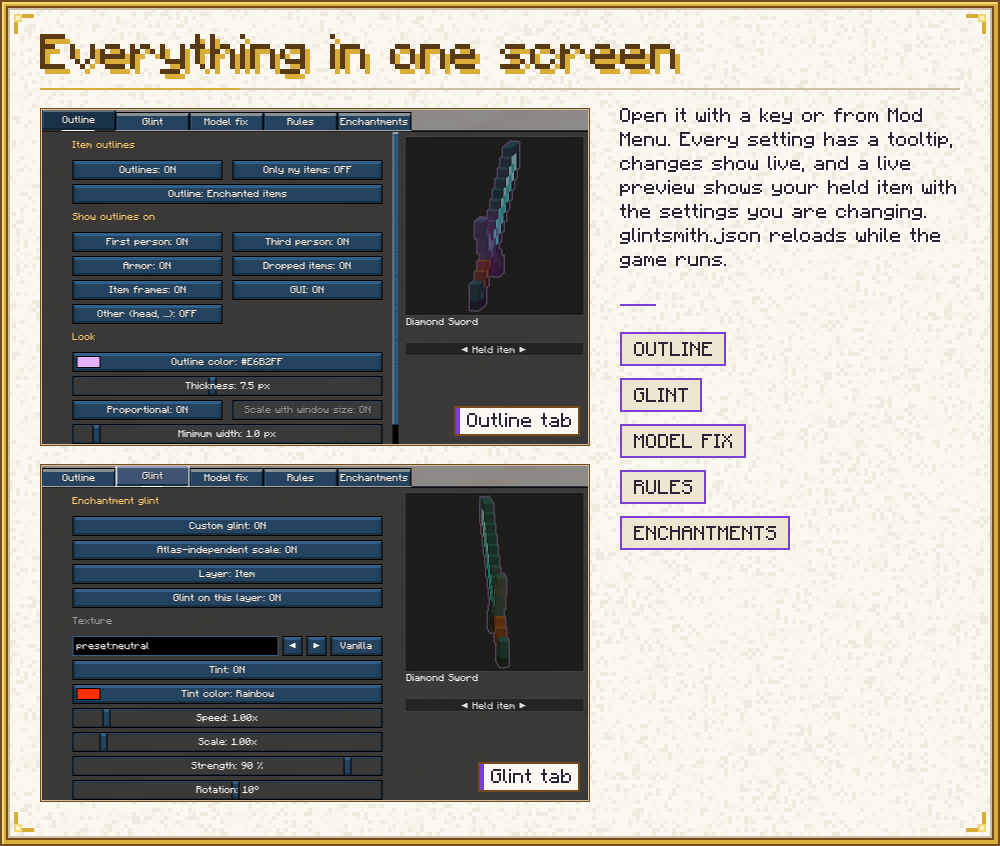
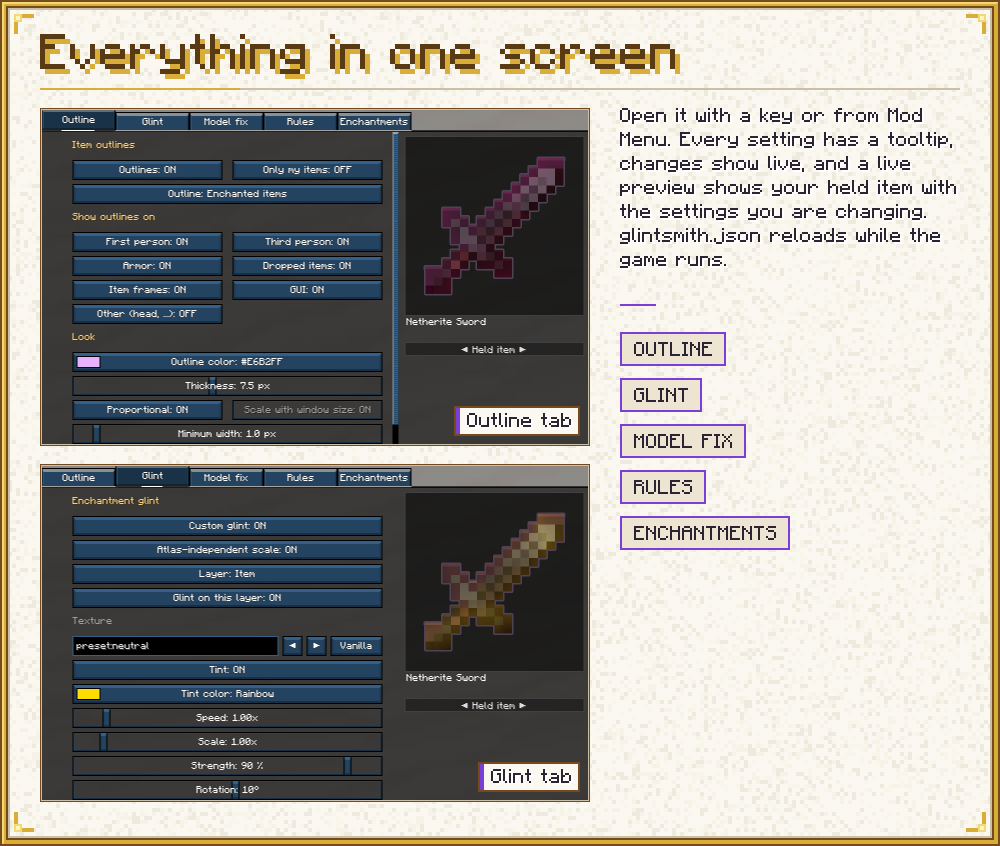
Art: card_config re-shot (netherite sword in hand, preview reset to the front view)

diff --git a/art/gallery/SHOTLIST.md b/art/gallery/SHOTLIST.md
@@ -223,7 +223,7 @@ Changing `gapFix` needs a resource reload (F3 + T, wait until it is done).
 
 Since 2.1.0 eight of these shots (`outline_static`, `hero_armor`, `hero_firstperson`, `target_third_person`, `target_dropped`, `target_gui`, `config_outline`,
 `config_glint`) are taken with the mod's built-in default config (owner defaults, no `glintsmith.json` profile overrides) by the `gallerydef` capture script, run
-2026-10-19. The other in-world captures keep their BASE profiles. Where a row below still names BASE or a macro, it applies to those other shots only.
+2026-10-19; `config_outline` and `config_glint` were re-taken by the `configfix` capture script the same day. The other in-world captures keep their BASE profiles. Where a row below still names BASE or a macro, it applies to those other shots only.
 
 All camera lines assume the rooms above. "Crop" is where the card looks (source pixels, centred unless given); it only
 has to be roughly right, the lead moves the crop in `cards.json` after looking at the capture.
@@ -275,8 +275,8 @@ middle 904 x 600 of the capture; if the screen is larger, tell the lead.
 | --- | --- | --- |
 | `rules_tab.png` | Rules tab, the four rules below visible, none selected | BASE + the four rules |
 | `rule_edit.png` | the editor of rule 1 (press Edit): name, items `#minecraft:swords`, the outline override with the red colour and thickness 3 visible | BASE + the four rules |
-| `config_outline.png` | Outline tab, top of the page, nothing hovered; since 2.0.0 the screen also shows the live preview panel (the held netherite sword with the outline). Re-shot 2026-10-19 by the `gallerydef` capture script (1920 x 1080); it shows the 2.1.0 built-in default config (static `#E6B2FF`, 7.5 px, outline on for armor and GUI) | the mod's built-in default config (2.1.0 owner defaults: outline static `#E6B2FF`, 7.5 px, 25 % opacity, on for armor and GUI; neutral glint with the rainbow tint at strength 0.9 on all four layers), no profile |
-| `config_glint.png` | Glint tab, layer Item, the default neutral texture with the rainbow tint at strength 90 %, live preview panel showing the sword with the default glint and the outline. Re-shot 2026-10-19 by the `gallerydef` capture script (1920 x 1080); it shows the 2.1.0 built-in default config | the mod's built-in default config (2.1.0 owner defaults: outline static `#E6B2FF`, 7.5 px, 25 % opacity, on for armor and GUI; neutral glint with the rainbow tint at strength 0.9 on all four layers), no profile (the screen shows the values) |
+| `config_outline.png` | Outline tab, top of the page, nothing hovered; since 2.0.0 the screen also shows the live preview panel (the held netherite sword with the outline). Re-shot 2026-10-19 by the `configfix` capture script (1920 x 1080), with the enchanted netherite sword in the hand and the preview view reset (right click, yaw 0) just before the screenshot, so the preview shows the sword flat; it shows the 2.1.0 built-in default config (static `#E6B2FF`, 7.5 px, outline on for armor and GUI) | the mod's built-in default config (2.1.0 owner defaults: outline static `#E6B2FF`, 7.5 px, 25 % opacity, on for armor and GUI; neutral glint with the rainbow tint at strength 0.9 on all four layers), no profile |
+| `config_glint.png` | Glint tab, layer Item, the default neutral texture with the rainbow tint at strength 90 %, live preview panel showing the sword with the default glint and the outline. Re-shot 2026-10-19 by the `configfix` capture script (1920 x 1080), with the enchanted netherite sword in the hand and the preview view reset (right click, yaw 0) just before the screenshot, so the preview shows the sword flat; it shows the 2.1.0 built-in default config | the mod's built-in default config (2.1.0 owner defaults: outline static `#E6B2FF`, 7.5 px, 25 % opacity, on for armor and GUI; neutral glint with the rainbow tint at strength 0.9 on all four layers), no profile (the screen shows the values) |
 
 The four rules (`"rules"` value):
 
